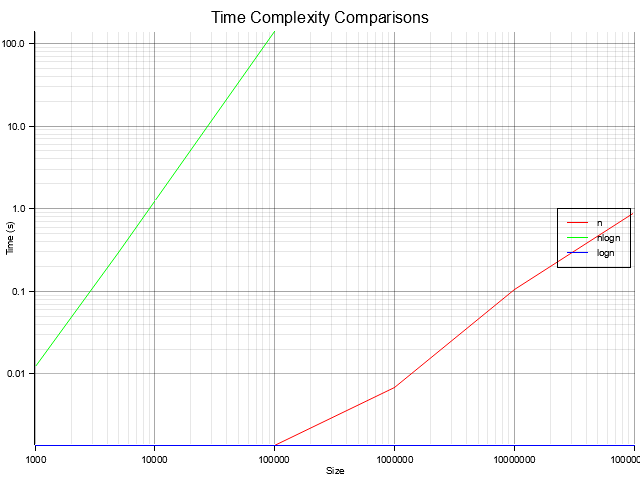
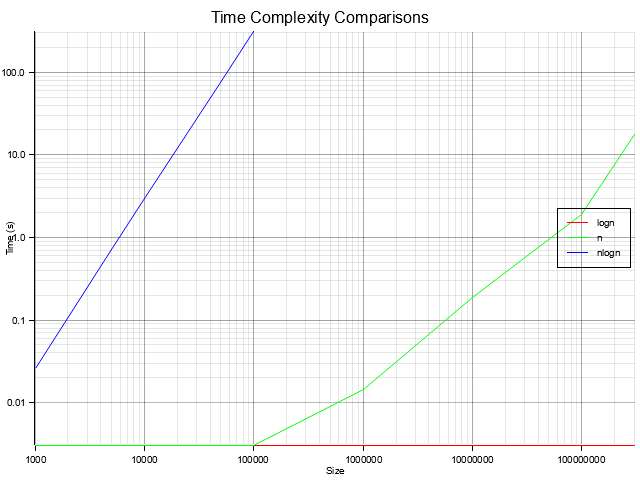
Final result

diff --git a/prob_algo/src/main.rs b/prob_algo/src/main.rs
@@ -8,8 +8,8 @@ use rand::Rng;
 
 fn main() {
     // Define different sizes for each complexity type
-    let sizes_n = vec![10_u128.pow(3), 10_u128.pow(4), 10_u128.pow(5), 10_u128.pow(6), 10_u128.pow(7), 10_u128.pow(8)];
-    let sizes_logn = vec![10_u128.pow(3), 10_u128.pow(4), 10_u128.pow(5), 10_u128.pow(6), 10_u128.pow(7), 10_u128.pow(8), 10_u128.pow(9)];
+    let sizes_n = vec![10_u128.pow(3), 10_u128.pow(4), 10_u128.pow(5), 10_u128.pow(6), 10_u128.pow(7), 10_u128.pow(8), 3*10_u128.pow(8)];
+    let sizes_logn = vec![10_u128.pow(3), 10_u128.pow(4), 10_u128.pow(5), 10_u128.pow(6), 10_u128.pow(7), 10_u128.pow(8), 3*10_u128.pow(8)];
     let sizes_nlogn = vec![10_u128.pow(3), 5 * 10_u128.pow(3), 10_u128.pow(4), 5 * 10_u128.pow(4), 10_u128.pow(5)];
 
     let complexities = vec![
@@ -107,7 +107,7 @@ fn plot_all_results(results: &[(String, Vec<(u128, f64)>)]) {
     let root = BitMapBackend::new("plot.png", (640, 480)).into_drawing_area();
     root.fill(&WHITE).unwrap();
 
-    let (min_size, max_size) = (10_u128.pow(3) as i64, 10_u128.pow(8) as i64); // Set appropriate range
+    let (min_size, max_size) = (10_u128.pow(3) as i64, 3*10_u128.pow(8) as i64); 
     let min_time = 0.0;
     let max_time = results.iter()
         .flat_map(|(_, times)| times.iter().map(|&(_, time)| time))
@@ -131,7 +131,7 @@ fn plot_all_results(results: &[(String, Vec<(u128, f64)>)]) {
             &color,
         )).unwrap()
         .label(complexity)
-        .legend(move |(x, y)| PathElement::new(vec![(x, y), (x + 20, y)], &color)); // Use color reference here
+        .legend(move |(x, y)| PathElement::new(vec![(x, y), (x + 20, y)], &color));
     }
 
     chart.configure_series_labels().border_style(&BLACK).draw().unwrap();
